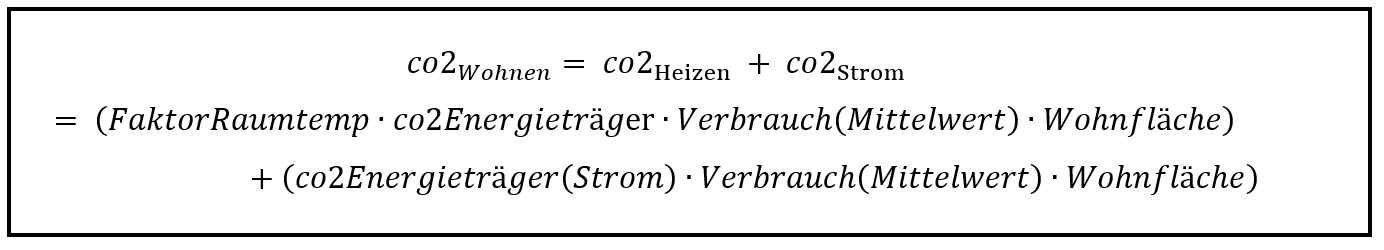
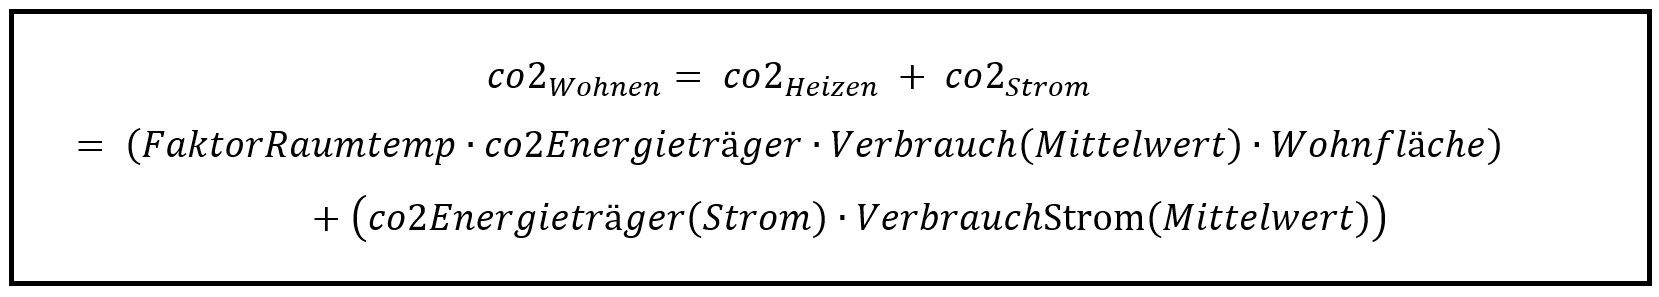
fast fertig

diff --git a/footprintapp.py b/footprintapp.py
@@ -38,7 +38,7 @@ def akt_abdruck(akt):
     # Berechne die aktuellen co2 werte
     co2_nahrung1 = akt[0]*7.21*53*faktor_nahrung
     co2_nahrung2 = (99.5*0.36+73.6*0.437+159.6*7.34+77.4*0.82+55*3.23+14.5*1.931)*faktor_nahrung
-    co2_wohnen_strom = 0.429*akt[3]*80
+    co2_wohnen_strom = 0.429*1964
     co2_wohnen_temp = 0.27* akt[3] *80*faktor_temp
     co2_wohnen = co2_wohnen_strom + co2_wohnen_temp
     co2_mob1 = 0.2045*akt[4]
@@ -95,9 +95,9 @@ def optimize(akt, pref, min_vals, jahr, co2_akt, faktor_nahrung):
 # =============================================================================
     c = [-pow(pref[0],2),-pow(pref[1],2),-pow(pref[2],2),-pow(pref[3],2),-pow(pref[4],2),0,0,0,0,0,0,0,0,0,0,0,0,0,0,0,0,0]
     
-    A_ub = [[co2_akt[0],co2_akt[1],co2_akt[2],co2_akt[3],co2_akt[4],co2_essen[0],co2_essen[1],co2_essen[2],co2_essen[3],co2_essen[4],co2_essen[5],0.429*akt[3]*80,0,0,0,0,0,0,0,0,0,0],
+    A_ub = [[co2_akt[0],(co2_akt[1]-0.27* akt[3] *80*0.8),co2_akt[2],co2_akt[3],co2_akt[4],co2_essen[0],co2_essen[1],co2_essen[2],co2_essen[3],co2_essen[4],co2_essen[5],0.429*akt[3]*80+0.27* akt[3] *80*0.8,0,0,0,0,0,0,0,0,0,0],
             [-akt[0],0,0,0,0,0,0,0,0,0,0,0,0,0,0,0,0,0,0,0,0,0],
-            [0,-akt[2],0,0,0,0,0,0,0,0,0,0,0,0,0,0,0,0,0,0,0,0],
+            [0,-(akt[2]-18),0,0,0,0,0,0,0,0,0,0,0,0,0,0,0,0,0,0,0,0],
             [0,0,-akt[4],0,0,0,0,0,0,0,0,0,0,0,0,0,0,0,0,0,0,0],
             [0,0,0,-akt[5],0,0,0,0,0,0,0,0,0,0,0,0,0,0,0,0,0,0],
             [0,0,0,0,-akt[6],0,0,0,0,0,0,0,0,0,0,0,0,0,0,0,0,0],
@@ -122,7 +122,7 @@ def optimize(akt, pref, min_vals, jahr, co2_akt, faktor_nahrung):
             [0,0,-1,1,0,0,0,0,0,0,0,0,0,0,0,0,0,0,0,1,0,0],
             [0,0,-1,0,1,0,0,0,0,0,0,0,0,0,0,0,0,0,0,0,1,0],
             [0,0,0,-1,1,0,0,0,0,0,0,0,0,0,0,0,0,0,0,0,0,1]]
-    b_ub = [max_co2,-min_vals[0],-min_vals[1],-min_vals[2],-min_vals[3],-min_vals[4],pow(max_prefdiff,2),0,0,0,0,0,0,0,0,0,0,0,0,0,0,0,0,0,0,0,0]
+    b_ub = [max_co2,-min_vals[0],-(min_vals[1]-18),-min_vals[2],-min_vals[3],-min_vals[4],pow(max_prefdiff,2),0,0,0,0,0,0,0,0,0,0,0,0,0,0,0,0,0,0,0,0]
     A_eq = [[-akt[0]*53*1860*1/6*1/340,0,0,0,0,1,0,0,0,0,0,0,0,0,0,0,0,0,0,0,0,0],
             [-akt[0]*53*1860*1/6*1/660,0,0,0,0,0,1,0,0,0,0,0,0,0,0,0,0,0,0,0,0,0],
             [-akt[0]*53*1860*1/6*1/1630,0,0,0,0,0,0,1,0,0,0,0,0,0,0,0,0,0,0,0,0,0],
@@ -147,7 +147,7 @@ c2.write("""
         # Fußabdruck der Zukunft
         ## - Optimiere deinen ökologischen Fußabdruck -
     """)
-navigation = c3.selectbox('', ["Startseite","Rechner: Fußabdruckoptimierung", "Rechner: Gesellschaftlicher Einfluss","Schülerseite","Hintergrund: Fußabdruckberechnung", "Hintergrund: Budgetberechnung", "Hintergrund: Fußabdruckoptimierung","Hintergrund: Datenvalidierung","Quellen & Impressum"])
+navigation = c3.selectbox('', ["Startseite","Rechner: Fußabdruckoptimierung", "Rechner: Gesellschaftlicher Einfluss","SchülerInnen-Guide","Hintergrund: Fußabdruckberechnung", "Hintergrund: Budgetberechnung", "Hintergrund: Fußabdruckoptimierung","Hintergrund: Datenvalidierung","Quellen & Impressum"])
 st.markdown("***")
 hide_footer_style = """
     <style>
@@ -299,7 +299,9 @@ elif navigation == "Rechner: Fußabdruckoptimierung":
                                       du ein Jahr auswählen, für das du gerne wissen möchtest, wie 
                                       dein Fußabdruck aussehen sollte. Wählst du beispielsweise das 
                                       Jahr 2030, so wird dein CO<sub>2</sub>-Fußabdruck so weit heruntergesetzt,
-                                      dass du unter dem Pro-Kopf-CO<sub>2</sub>-Budget von 2030 liegst.
+                                      dass du unter dem Pro-Kopf-CO<sub>2</sub>-Budget von 2030 liegst.<br>
+                                      <font size = 2> Hinweis: Auf der Seite 'Hintergund: Budgetberechnung' findest du
+                                      Informationen über die Grundlage dieser Berechnung. </font>
                                       """,unsafe_allow_html=True)
                     
                     jahr = st.slider(label='Jahr', min_value=2021,max_value=2050,step=1)
@@ -322,7 +324,9 @@ elif navigation == "Rechner: Fußabdruckoptimierung":
                                 <font size=6><b>Dein Ergebnis</b> </font><br>
                                 <font size=5><b> Dein CO<sub>2</sub>-Fußabdruck darf im Jahr """+str(jahr)+"""
                                  nurnoch """+ str(maxco2)+ """ Kilogramm betragen, aktuell beträgt er """
-                                 +str(round(akt_abdruck))+""" Kilogramm.</b></font><br><br>
+                                 +str(round(akt_abdruck))+""" Kilogramm.</b></font><br>
+                                 <font size = 2> Hinweis: Auf der Seite 'Hintergund: Fußabdruckoptimierung' findest du
+                                 Informationen über die Grundlage dieser Berechnung. </font><br>
                                 """,unsafe_allow_html=True)
                     
                         if akt_abdruck <= maxco2:
@@ -344,7 +348,7 @@ elif navigation == "Rechner: Fußabdruckoptimierung":
                                     """,unsafe_allow_html=True)
                             if round(solution[1],4)<1:
                                 reduktion1 = round((1 - solution[1])*100,2)
-                                red1 = round(akt[2]*solution[1],1)
+                                red1 = 18.0 + round((akt[2]-18)*solution[1],1)
                                 c1,c2 = st.beta_columns((3,1))
                                 image_heizen= Image.open('Red_Heizen.jpg')
                                 c2.image(image_heizen, width=100, clamp=False, channels='RGB', output_format='auto')
@@ -388,6 +392,11 @@ elif navigation == "Rechner: Fußabdruckoptimierung":
                                     Weniger Kleidungsstücke und dafür hochwertige sind deutlich besser für das Klima. Seien wir mal
                                     ehrlich, viele Sachen die wir einmal kaufen ziehen wir am Ende viel zu selten an...
                                     """,unsafe_allow_html=True)
+    st.markdown("***")
+    st.markdown("""<font size = 2>
+                Anmerkung: Alle Berechnungen wurden mit festen CO<sub>2</sub> Werten durchgeführt. Auf mögliche Verbesserungen wurde 
+                nicht eingegangen.</font>""",unsafe_allow_html=True)
+    
                                     
 #====================================================================================================
                                     
@@ -576,7 +585,7 @@ elif navigation == "Hintergrund: Budgetberechnung":
     image13= Image.open('Formel_Bev1.PNG')
     c2.image(image13, width=300, clamp=False, channels='RGB', output_format='auto')
     st.markdown("""Somit kann der prozentuale Anteil der durch die Bevölkerung verursachten Emissionen
-             P<sub>Bev</sub>an den bundesweiten Emissionen bestimmt werden.""",unsafe_allow_html=True)
+             P<sub>Bev</sub> an den bundesweiten Emissionen bestimmt werden.""",unsafe_allow_html=True)
     c1,c2,c3 = st.beta_columns([2,3,1])
     image14= Image.open('Formel_Bev2.PNG')
     c2.image(image14, width=300, clamp=False, channels='RGB', output_format='auto')
@@ -591,7 +600,7 @@ elif navigation == "Hintergrund: Budgetberechnung":
     c2.image(image16, width=300, clamp=False, channels='RGB', output_format='auto')
     st.markdown("""Dieser Wert sagt aus, dass der durch die Bevölkerung verursachte CO<sub>2</sub>-Verbrauch
              ungefähr 83% ausmacht <sup>1</sup>.
-             Er erlaubt es uns, für künftige bundesweite CO<sub>2</sub>-Budgets ein pro Kopf Budget 
+             Er erlaubt es uns für künftige bundesweite CO<sub>2</sub>-Budgets ein pro Kopf Budget 
              vorherzusagen. """,unsafe_allow_html=True)
     st.markdown("***")
     st.write("## Künftige $CO_{2}$-Budgets")
@@ -653,9 +662,9 @@ elif navigation == 'Hintergrund: Fußabdruckoptimierung':
     c1,c2,c3 = st.beta_columns((1,10,1))
     c2.markdown("""<ol><li>aktuelle Nutzdaten</li><li>Präferenzen</li><li>Minimalwerte</li>
                 <li>Optimierungsjahr</li></ol>""",unsafe_allow_html=True)
-    st.markdown("""Aus diesen Daten erstellen wir ein Optimierungsmodell.<br><br>
+    st.markdown("""Auf der Basis dieser Daten erstellen wir das Optimierungsmodell.<br><br>
                 <font size = 5><b>Schritt 1: Eingabedaten verarbeiten</b></font><br><br>
-                Aktuelle Nutzdaten: Für unser Modell benötigen wir die CO<sub>2</sub>-Emissionen, 
+                <u>Aktuelle Nutzdaten:</u> Für unser Modell benötigen wir die CO<sub>2</sub>-Emissionen, 
                 die durch die einzelnen Handlungen erzeugt werden. Aus diesen berechnen wir 
                 die aktuellen CO<sub>2</sub>-Emissionen der einzelnen Komponenten. Wie wir das berechnen
                 und welche Daten wir nutzen findest du in Abschnitt 'Hintergrund: 
@@ -668,8 +677,13 @@ elif navigation == 'Hintergrund: Fußabdruckoptimierung':
     c2.write("$co2ess_{j}$ mit $j \in J = \{Gemüse, Obst, Milchprodukte, Brot, Kartoffeln, Eier\}$")
     st.write("und") 
     c1,c2,c3 = st.beta_columns((1,4,1))
-    c2.write("$co2strom$.")
-    st.markdown("""Optimierungsjahr: Anhand des Optimierungsjahres berechnen wir den maximal 
+    c2.write("$co2strom$ & $co2heizen$,")
+    st.write(""" wobei zu beachten ist, dass sich die Gesamtemissionen des Bereichs 'Heizen' aus den Emissionen
+                beim Heizen bis zu 18 Grad ($co2heizen$) und den Emissionen, die beim Heizen
+                über 18 Grad entstehen $(co2akt_{Heizen})$,
+                zusammensetzen.
+                """)
+    st.markdown("""<u>Optimierungsjahr:</u> Anhand des Optimierungsjahres berechnen wir den maximal 
                 möglichen CO<sub>2</sub>-Ausstoß des Nutzers, d.h. sein CO<sub>2</sub>-Budget. Wie wir das 
                 berechnen und welche Daten wir nutzen findest du in Abschnitt 'Hintergrund: 
                 Budgetberechnung'.<br>
@@ -683,12 +697,14 @@ elif navigation == 'Hintergrund: Fußabdruckoptimierung':
                 einzuhalten. Dazu führen wir die folgenden Variablen ein:""",unsafe_allow_html=True)
     c1,c2,c3 = st.beta_columns((1,4,1))
     c2.write("$var_{i}$ mit $i \in I = \{Fleisch, Heizen, Auto, Flugzeug, Kleidung\}$")
+    c1,c2,c3 = st.beta_columns((3,4,3))
+    c2.write("$0 \leq var_{i} \leq 1$")
     st.markdown("""<font size = 5><b>Schritt 3: Zielfunktion</b></font><br><br>
                 Die Präferenzen des Nutzers sollen maximiert werden, damit die Reduktion 
                 der Emissionen möglichst komfortabel geschieht. Vom Nutzer erhalten wir direkt
                 seine Präferenzwerte. Diese liegen zwischen 1 und 10, je höher der Wert desto
                 höher auch die Präferenz. Da $var_{i}$ die Beibehaltung der jeweiligen Kategorien 
-                angibt, erhalten wir durch Multiplikation mit den den passenden Präferenzwerten 
+                angibt, erhalten wir durch Multiplikation mit den passenden Präferenzwerten 
                 den Gesamtkomfort. Um höhere Präferenzwerte deutlicher von niedrigen abzugrenzen
                 quadrieren wir die Präferenzwerte. Wir erhalten:""",unsafe_allow_html=True)
     c1,c2,c3 = st.beta_columns((1,4,1))
@@ -704,8 +720,9 @@ elif navigation == 'Hintergrund: Fußabdruckoptimierung':
                führen wir Variablen""",unsafe_allow_html=True)
     c1,c2,c3 = st.beta_columns((1,4,1))
     c2.write("$var_{j}$ für $j \in J$ mit $var_{j}  \geq 0$  $j \in J$")
-    st.markdown("""ein, die diesen Austauschprozess simulieren.<br>
-                Um eine möglichst realistische Einschätzung zu geben, wird der tägliche 
+    st.write("""ein, die diesen Austauschprozess simulieren. Dabei gibt $var_{j}$ die jährlich verzehrte
+             Menge einer Lebensmittelgruppe $j$ in Kilogramm an.""")
+    st.markdown(""" Um eine möglichst realistische Einschätzung zu geben, wird der tägliche 
                Kalorienbedarf ausgehend von der angegebenen Verzehrmenge Fleisch und den 
                durchschnittlichen Verzehrmengen der übrigen Lebensmittelgruppen berechnet. 
                Zu der vorgeschlagenen Reduzierung der Verzehrmenge Fleisch wird die entsprechende
@@ -714,7 +731,7 @@ elif navigation == 'Hintergrund: Fußabdruckoptimierung':
                (noch j in die Bilder einfügen für die Lebensmittelkategorien). <br>
                Wir erhalten den Zusammenhang:""",unsafe_allow_html=True)
     c1,c2,c3 = st.beta_columns((1,4,1))
-    c2.write("$menge_{j} \cdot 365 + (1-var_{Fleisch}) \cdot akt_{Fleisch} \cdot 53 \cdot 1860 \cdot 1/6 \cdot 1/kalorien_{j} = var_{j}$  $j \in J$")
+    c2.write("$menge_{j} + (1-var_{Fleisch}) \cdot akt_{Fleisch} \cdot 53 \cdot 1860 \cdot 1/6 \cdot 1/kalorien_{j} = var_{j}$  $j \in J$")
     st.markdown("""Für den Gesamtausstoß addieren wir zu den bereits genannten Summen noch die 
                 CO<sub>2</sub>-Emissionen für Strom. Wir erhalten damit die Budget-Bedingung:""",unsafe_allow_html=True)
     c1,c2,c3 = st.beta_columns((1,4,1))
@@ -801,113 +818,121 @@ elif navigation == "Hintergrund: Datenvalidierung":
     
 
 
-elif navigation=='Schülerseite':
+elif navigation=='SchülerInnen-Guide':
     c1, c2 = st.beta_columns([1, 1])
     c1.write("""
-            # Schülerseite - Fußabdruck der Zukunft
+            # SchülerInnen-Guide - Fußabdruck der Zukunft
          """)
     c1.write("Willkommen auf der Schülerseite von „Fußabdruck der Zukunft“. Hier findest du eine Anleitung, die dich durch unsere Seite führt. Los geht’s!")
     image1 = Image.open('Schüler.jpg')
     c2.image(image1, width=700, clamp=False, channels='RGB', output_format='auto')
     st.markdown("***")
     
-    st.write("""
-            ## Aufgabe 1
-            Schau dir zum Einstieg in das Thema das Video „CO2 und der Treibhauseffekt - einfach erklärt“ an. 
-            """)
     
-    c1, c2, c3 = st.beta_columns([1, 2, 1])
-    c2.video(data='https://www.youtube.com/watch?v=CR3q9vnSlFQ', format='video/mp4', start_time=0)
+    checkbox8 = st.checkbox(label="Aufgabe 1: Was ist der Treibhauseffekt?")
+    if checkbox8:
+        st.markdown("<br>", unsafe_allow_html=True)
+        st.write("""
+                ## Aufgabe 1
+                Schau dir zum Einstieg in das Thema das Video „CO2 und der Treibhauseffekt - einfach erklärt“ an. 
+                """)
     
-    checkbox1 = st.checkbox(label="Weiter zu Aufgabe 2")
-    if checkbox1:
+        c1, c2, c3 = st.beta_columns([1, 2, 1])
+        c2.video(data='https://www.youtube.com/watch?v=CR3q9vnSlFQ', format='video/mp4', start_time=0)
         st.markdown("***")
+        st.markdown("<br>", unsafe_allow_html=True)
+    
+    
+    checkbox1 = st.checkbox(label="Aufgabe 2: Einführung in das Thema CO2-Fußabdruck")
+    if checkbox1:
         st.markdown("<br>", unsafe_allow_html=True)
         st.write("""
                 ## Aufgabe 2
-                Besuche jetzt die Seite „Fußabdruck der Zukunft“ über den folgenden Link https://share.streamlit.io/paulaflschr/footprintred/main/footprintapp.py.
-                Lies dir alle Informationen auf der Startseite durch und schau dir das Video „Klimaschutz im Alltag – Welchen Einfluss haben wir?“ an. 
+                Wechsele zur Startseite und lies dir alle Informationen durch.Schau dir das Video „Klimaschutz im Alltag – Welchen Einfluss haben wir?“ an. 
                 """)
+        st.markdown("***")
         st.markdown("<br>", unsafe_allow_html=True)
     
     
-        checkbox2 = st.checkbox(label="Weiter zu Aufgabe 3")
-        if checkbox2:
-            st.markdown("***")
-            st.markdown("<br>", unsafe_allow_html=True)
-            st.markdown("""
-                        ## Aufgabe 3
-                        Wechsele jetzt zum "Rechner: Fußabdruck-Optimierung". Führe den Schritt 1 durch und schau dir dein Ergebnis an. Stell dir selbst die Fragen: <br>
-                        <i>„Welcher Bereich in meinem Leben hat den größten Verbrauchswert?“ <br>
-                        „Habe ich erwartet, dass die Verteilung so aussieht? Wenn ja, wieso?“ <br>
-                        „Sind meine Werte größer oder kleiner als die durchschnittlichen Werte?“ <br>
-                        „Ist das gut oder eher schlecht?“</i> """, unsafe_allow_html=True)
-            st.markdown("<br>", unsafe_allow_html=True)
+    checkbox2 = st.checkbox(label="Aufgabe 3: Berechnung deines CO2Fußabdrucks")
+    if checkbox2:
+        st.markdown("<br>", unsafe_allow_html=True)
+        st.markdown("""
+                     ## Aufgabe 3
+                    Wechsele jetzt zum "Rechner: Fußabdruck-Optimierung". Führe den Schritt 1 durch und schau dir dein Ergebnis an. Stell dir selbst die Fragen: <br>
+                    <i>„Welcher Bereich in meinem Leben hat den größten Verbrauchswert?“ <br>
+                    „Habe ich erwartet, dass die Verteilung so aussieht? Wenn ja, wieso?“ <br>
+                    „Sind meine Werte größer oder kleiner als die durchschnittlichen Werte?“ <br>
+                    „Ist das gut oder eher schlecht?“</i> """, unsafe_allow_html=True)
+        st.markdown("***")
+        st.markdown("<br>", unsafe_allow_html=True)
     
     
-            checkbox3 = st.checkbox(label="Weiter zu Aufgabe 4")
-            if checkbox3:
-                st.markdown("***")
-                st.markdown("<br>", unsafe_allow_html=True)
-                st.write("""
-                        ## Aufgabe 4
-                        Führe jetzt die übrigen Schritte 2 bis 4 durch und schau dir das Ergebnis deines zukünftigen Fußabdrucks an. Verändere gerne deine Eingabe aus den Schritten 3 und 4. Welche Auswirkungen hat das auf dein Ergebnis?
-                        """)
-                st.markdown("<br>", unsafe_allow_html=True)
+    checkbox3 = st.checkbox(label="Aufgabe 4: Dein CO2-Fußabdruck in der Zukunft")
+    if checkbox3:
+        st.markdown("<br>", unsafe_allow_html=True)
+        st.write("""
+                 ## Aufgabe 4
+                Führe jetzt die übrigen Schritte 2 bis 4 durch und schau dir das Ergebnis deines zukünftigen Fußabdrucks an. Verändere gerne deine Eingabe aus den Schritten 3 und 4. Welche Auswirkungen hat das auf dein Ergebnis?
+                """)
+        st.markdown("***")
+        st.markdown("<br>", unsafe_allow_html=True)
     
     
-                checkbox4 = st.checkbox(label="Weiter zu Aufgabe 5")
-                if checkbox4:
-                    st.markdown("***")
-                    st.markdown("<br>", unsafe_allow_html=True)
-                    st.write("""
-                            ## Aufgabe 5
-                            Deutschland hat seine Klimaziele im Klimaschutzplan 2050 festgehalten. Was es damit auf sich hat erfährst du im Video "der Klimaschutzplan".
-                            """)
-                    c1, c2, c3 = st.beta_columns([1, 2, 1])
-                    c2.video(data='https://www.youtube.com/watch?v=OYwC3nkvCUo', format='video/mp4', start_time=0)
-                    st.write("""
-                            Damit das Klimaschutzziel erreicht werden kann, müssen alle mitmachen. Um dir ein Gefühl dafür zu geben, welchen Einfluss das Handeln von dir und den Menschen in deinem Umfeld hat, haben wir den "Rechner:Gesellschaftlicher Einfluss" entwickelt. 
-                            Wechsele jetzt zum "Rechner: Gesellschaftlicher Einfluss". Führe den Rechner aus und verändere dabei deine Eingabewerte. Was fällt dir auf?
-                            """)
-                    st.markdown("<br>", unsafe_allow_html=True)
+    checkbox4 = st.checkbox(label="Aufgabe 5: Gesellschaftlicher Einfluss")
+    if checkbox4:
+        st.markdown("<br>", unsafe_allow_html=True)
+        st.write("""
+                ## Aufgabe 5
+                Deutschland hat seine Klimaziele im Klimaschutzplan 2050 festgehalten. Was es damit auf sich hat erfährst du im Video "der Klimaschutzplan".
+                """)
+        c1, c2, c3 = st.beta_columns([1, 2, 1])
+        c2.video(data='https://www.youtube.com/watch?v=OYwC3nkvCUo', format='video/mp4', start_time=0)
+        st.write("""
+                Damit das Klimaschutzziel erreicht werden kann, müssen alle mitmachen. Um dir ein Gefühl dafür zu geben, welchen Einfluss das Handeln von dir und den Menschen in deinem Umfeld hat, haben wir den "Rechner:Gesellschaftlicher Einfluss" entwickelt. 
+                Wechsele jetzt zum "Rechner: Gesellschaftlicher Einfluss". Führe den Rechner aus und verändere dabei deine Eingabewerte. Was fällt dir auf?
+                """)
+        st.markdown("***")
+        st.markdown("<br>", unsafe_allow_html=True)
     
     
-                    checkbox5 = st.checkbox(label="Weiter zu Aufgabe 6")
-                    if checkbox5:
-                        st.markdown("***")
-                        st.markdown("<br>", unsafe_allow_html=True)
-                        st.write("""
-                                ## Aufgabe 6
-                                Wir wollen dir jetzt erklären, wie wir den "Rechner: Fußabdruck-Optimierung" entwickelt haben und welche Überlegungen dahinter stecken.
-                                Wechsele dazu auf die Seite "Hintergrund: Fußabdruckberechnung". Hier wird dir Schritt für Schritt erklärt, wie der "Rechner: Fußabdruckoptimierung" deinen persönlichen CO<sub>2</sub>-Fußabdruck berechnet.
-                                Du wirst durch die einzelnen Kategorien geführt und findest dort auch Verweise auf die Quellen, aus denen unsere Daten stammen.<br>
-                                <br> Lies dir alles in Ruhe durch. Versuche dann selbst deinen CO<sub>2</sub>-Verbrauch zu berechnen. Verwende dazu die Formeln der Seite und die Daten aus den Tabellen.
-                                Zur Überprüfung stehen dir deine Werte aus dem "Rechner:Fußabdruck-Optimierung" zur Verfügung.""", unsafe_allow_html=True)
-                        st.markdown("<br>", unsafe_allow_html=True)
+    checkbox5 = st.checkbox(label="Aufgabe 6: Hintergrund der Berechnung deines CO2-Fußabdrucks")
+    if checkbox5:
+        st.markdown("<br>", unsafe_allow_html=True)
+        st.write("""
+                ## Aufgabe 6
+                Wir wollen dir jetzt erklären, wie wir den "Rechner: Fußabdruck-Optimierung" entwickelt haben und welche Überlegungen dahinter stecken.
+                Wechsele dazu auf die Seite "Hintergrund: Fußabdruckberechnung". Hier wird dir Schritt für Schritt erklärt, wie der "Rechner: Fußabdruck-Optimierung" deinen persönlichen CO<sub>2</sub>-Fußabdruck berechnet.
+                Du wirst durch die einzelnen Kategorien geführt und findest dort auch Verweise auf die Quellen, aus denen unsere Daten stammen.<br>
+                <br> Lies dir alles in Ruhe durch. Versuche dann selbst deinen CO<sub>2</sub>-Verbrauch zu berechnen. Verwende dazu die Formeln der Seite und die Daten aus den Tabellen.
+                Zur Überprüfung stehen dir deine Werte aus dem "Rechner:Fußabdruck-Optimierung" zur Verfügung.""", unsafe_allow_html=True)
+        st.markdown("***")
+        st.markdown("<br>", unsafe_allow_html=True)
     
     
-                        checkbox6 = st. checkbox(label="Weiter zu Aufgabe 7")
-                        if checkbox6:
-                            st.markdown("***")
-                            st.markdown("<br>", unsafe_allow_html=True)
-                            st.write("""
-                                    ## Aufgabe 7
-                                    Nachdem du jetzt weißt, wie der CO<sub>2</sub>-Fußabdruck berechnet wird, schauen wir uns als nächstes das CO<sub>2</sub>-Budget an. Wechsele dazu auf die Seite "Hintergrund: Budgetberechnung".
-                                    Lies dir alles in Ruhe durch und schau dir gerne das Video zum Klimaschutzplan noch einmal an, falls es dir hilft.
-                                    Versuche anschließend selbst dein künftiges CO<sub>2</sub>-Budget zu berechnen, indem du dir ein beliebiges Jahr bis 2050 auswählst. Wie wäre es zum Beispiel mit 2033?""", unsafe_allow_html=True)
-                            st.markdown("<br>", unsafe_allow_html=True)
+    checkbox6 = st.checkbox(label="Aufgabe 7: Hintergrund der Berechnung deines zukünftigen CO2-Fußabdrucks")
+    if checkbox6:
+        st.markdown("<br>", unsafe_allow_html=True)
+        st.write("""
+                ## Aufgabe 7
+                Nachdem du jetzt weißt, wie der CO<sub>2</sub>-Fußabdruck berechnet wird, schauen wir uns als nächstes das CO<sub>2</sub>-Budget an. Wechsele dazu auf die Seite "Hintergrund: Budgetberechnung".
+                Lies dir alles in Ruhe durch und schau dir gerne das Video zum Klimaschutzplan noch einmal an, falls es dir hilft.
+                Versuche anschließend selbst dein künftiges CO<sub>2</sub>-Budget zu berechnen, indem du dir ein beliebiges Jahr bis 2050 auswählst. Wie wäre es zum Beispiel mit 2033?""", unsafe_allow_html=True)
+        st.markdown("***")
+        st.markdown("<br>", unsafe_allow_html=True)
     
     
-                            checkbox7 = st.checkbox(label="Weiter zu Aufgabe 8")
-                            if checkbox7:
-                                st.markdown("***")
-                                st.markdown("<br>", unsafe_allow_html=True)
-                                st.write("""
-                                        ## Aufgabe 8
-                                        Unser "Rechner:Fußabdruck-Optimierung" reduziert deinen ursprünglichen Fußabdruck so, dass du dein künftiges CO<sun>2</sub>-Budget einhälst. Wie diese Reduzierung funktioniert, wollen wir dir jetzt erklären.
-                                        Wechsele dazu zur Seite "Hintergrund: Fußabdruck-Optimierung". Lies dir alles Ruhe durch.""", unsafe_allow_html=True)
-                                st.markdown("<br>", unsafe_allow_html=True)
+    checkbox7 = st.checkbox(label="Aufgabe 8: Überprüfung der Daten")
+    if checkbox7:
+        st.markdown("<br>", unsafe_allow_html=True)
+        st.write("""
+                ## Aufgabe 8
+                Beim Erstellen unseres Rechners zur Fußabdruck-Optimierung haben wir uns gefragt, ob unsere Ergebnisse glaubhaft sind. Das bedeutet, wie sicher kannst du dir als Benutzer sein, dass diese Werte auch stimmen? Um diese Frage zu beantworten haben wir die Seite "Hintergrund: Datenvalidierung" erstellt. 
+                Wechsele zu dieser Seite und lies dir alles aufmerksam durch.<br>
+                Du siehst in den Tabellen, die Werte, die wir mit den Durchschnittswerten für 2019 berechnet haben. Überprüfe für dich selbst, wie gut die Werte unseres Rechners mit dem Rechner des Umweltbundesamtes übereinstimmen. Führe dazu den CO<sub>2</sub>-Rechner auf der Seite https://uba.co2-rechner.de/de_DE/living-pt#panel-calc aus.
+                Vergleiche dann diesen Wert mit dem Fußabdruck, den du auf unserer Seite berechnet hast. Was sagst du zu deinen Ergebnissen?""", unsafe_allow_html=True)
+        st.markdown("***")
+        st.markdown("<br>", unsafe_allow_html=True)
 
         
     
@@ -939,6 +964,7 @@ else:
                 <br>[10]: Zippmann, V. (2020): In Mecklenburg-Vorpommern fahren Autofahrer am weitesten. Verfügbar über: https://www.autozeitung.de/jaehrliche-fahrleistung-197899.html (letzter Zugriff: 07.07.2021)
                 <br>[11]: Statistica (2021). Die Welt kauft in der Pandemie weniger Kleidung. Verfügbar über: https://de.statista.com/infografik/24066/geschaetzter-durchschnittlicher-pro-kopf-absatz-von-kleidungsstuecken/ (letzter Zugriff: 07.07.2021)
                 <br>[12]: Umweltbundesamt. Treibhausgasaustoß pro Kopf in Deutschland nach Konsumbereichen. Verfügbar über: https://www.umweltbundesamt.de/bild/treibhausgas-ausstoss-pro-kopf-in-deutschland-nach (letzter Zugriff: 09.07.2021) 
+                <br>[13]: StromBoB. Durchschnittlicher Stromverbrauch in Deutschland. Verfügbar über: https://www.strombob.de/ratgeber/durchschnittlicher-stromverbrauch/ (letzter Zugriff: 11.07.2021)
                 """, unsafe_allow_html=True)
     st.write("von Lena Bill & Paula Fleischer")
     
